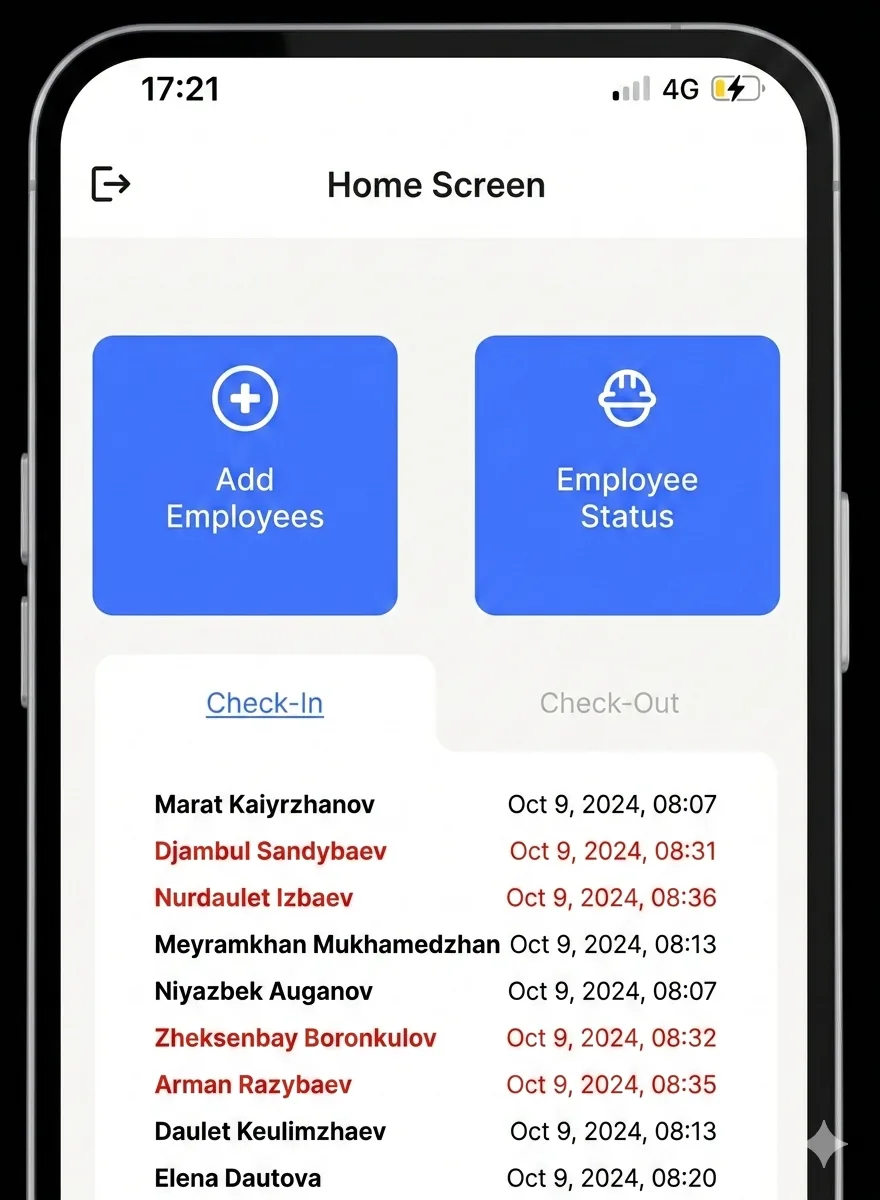
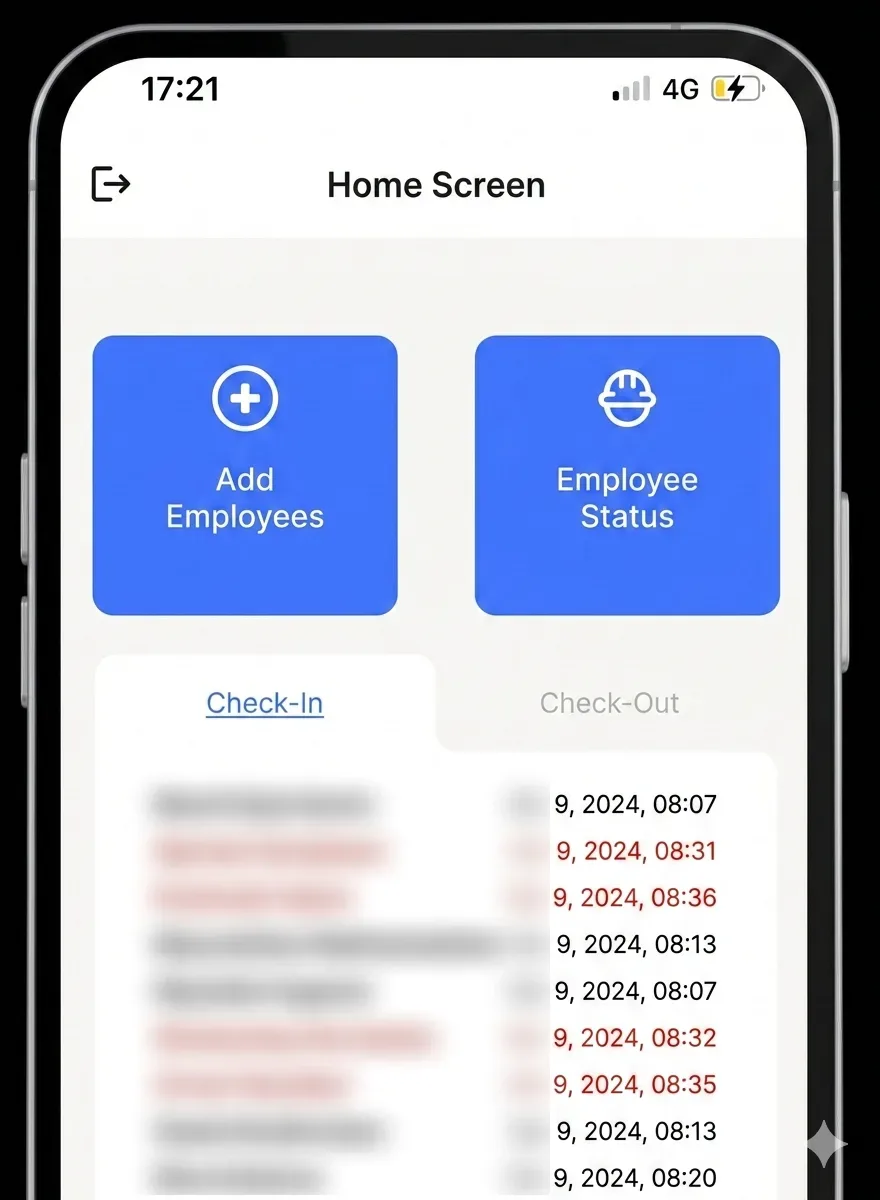
privacy(ams): blur the employee names on the dashboard screenshot
The screenshot published nine people's names beside their check-in times,
with red marking who arrived late on 9 October 2024. That is other people's
attendance record on a public page, and none of them chose to be there.

The name column is blurred. The interface still reads — the buttons, the
check-in and check-out tabs, the times — so the screenshot still shows what
the product does. The untouched original stays in the owner's media folder,
and docs/facts-to-confirm.md asks whether consent exists to restore it.

The same file also now asks about the colleague's face in a deployment
photograph, the ESG branding on the tablets, and whether the owner is named
on the patent and the conformity declaration that the page reproduces.

Claude-Session: https://claude.ai/code/session_01ThSHcGrsMwmmfyRTSuN59v

Changed region(s): [[0.1534, 0.6475, 0.6136, 1.0]]

diff --git a/docs/facts-to-confirm.md b/docs/facts-to-confirm.md
@@ -54,6 +54,26 @@ Guessed dates come from when files were saved on the Mac, which is not when the 
   their source named.
   Answer: ________
 
+### Two things on the AMS page that involve other people
+
+- **The dashboard screenshot published nine employees' names with their
+  check-in times, and highlighted in red who arrived late on 9 October 2024.**
+  That is other people's attendance record on a public page. I blurred the
+  name column; the interface still reads and the original is untouched in your
+  media folder. Say the word if you have their consent and want it back.
+  Answer: ________
+- One deployment photograph shows a colleague's face clearly. Photographs of
+  people at work are normal on a portfolio, so I left it — but you know them
+  and I do not. Keep it?
+  Answer: ________
+- The tablets in the deployment photographs are branded **ESG**, not AMS. Is
+  ESG the product name, the client, or the manufacturer?
+  Answer: ________
+- The patent image is a Republic of Kazakhstan utility model patent, № 8784,
+  registered 2024, and the certification is an EAEU declaration of conformity.
+  Are you named on either, and may the documents stay on a public page?
+  Answer: ________
+
 ## 5. Engineering Rocket
 
 - Club name and city:
